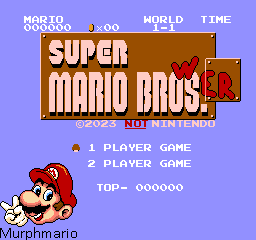
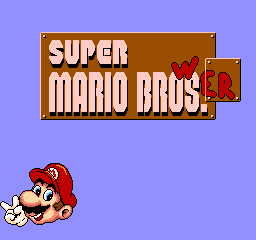
preparing for legally distinct version

diff --git a/src/systems/overlay.ts b/src/systems/overlay.ts
@@ -38,90 +38,28 @@ const credits = `
 ~Credits~
 
 
+Art
+
+  ProsciuttoMan
+
 Audio
-
-  Remixes
-
-    Blue Brew Music
-
-    RetroGamingMusic HQ
-
-    Ryan Z 'Piano Guy'
-
-    The Noble Demon
-
-    Qumu
   
-  Sound-rips
+  Pending
 
-    https://themushroomkingdom.net
+Font
 
+  TheWolfBunny64
 
-Graphics
+Programming
 
-  Super Mario Bros. NES Font
+  all of it
 
-    TheWolfBunny64
-
-  Sprite-rips
-
-    SuperJustinBros
-
-    Murphmario
-
-
-Original Team
-  via https://www.mariowiki.com
-  /List_of_Super_Mario_Bros._staff
-
-  Director
-
-    Shigeru Miyamoto
-
-  Assistant Director
-
-    Takashi Tezuka
-
-  Sound Department
-
-    Koji Kondo
-
-  Original Music
-
-    Koji Kondo
-
-  Designers
-
-    Shigeru Miyamoto
-    Takashi Tezuka
-
-  Programmers
-
-    Toshihiko Nakago
-    Kazuaki Morita
-
-  Producer
-
-    Shigeru Miyamoto
-
-  Executive Producer
-
-    Hiroshi Yamauchi
-
-
-  Original Music from other games
-
-    Kazumi Totaka
-
+    WaterSilverC
 
 Special Thanks
 
   Pixi.js team
     for the great rendering library
-
-  Nintendo
-    for not having
-    cease-and-desist'd this (yet)
 
   https://nesmaps.com
     for the amazing map guides

diff --git a/README.md b/README.md
@@ -1,15 +1,7 @@
-# smbrowser
-Super mario bros 1 for the browser
+not super mario bros 1 for the browser
 
 ## credits
 
 font: https://thewolfbunny64.itch.io/super-mario-bros-nes
-
-music:
-* https://www.youtube.com/@BlueBrewMusic
-* https://www.youtube.com/@retrogamingmusichq5677
-* https://www.youtube.com/@RyanZPianoGuy
-* https://www.youtube.com/@TheNobleDemon
-* https://www.youtube.com/@qumumusic
 
 physics: https://www.youtube.com/watch?v=8JJ-4JgR7Dg
